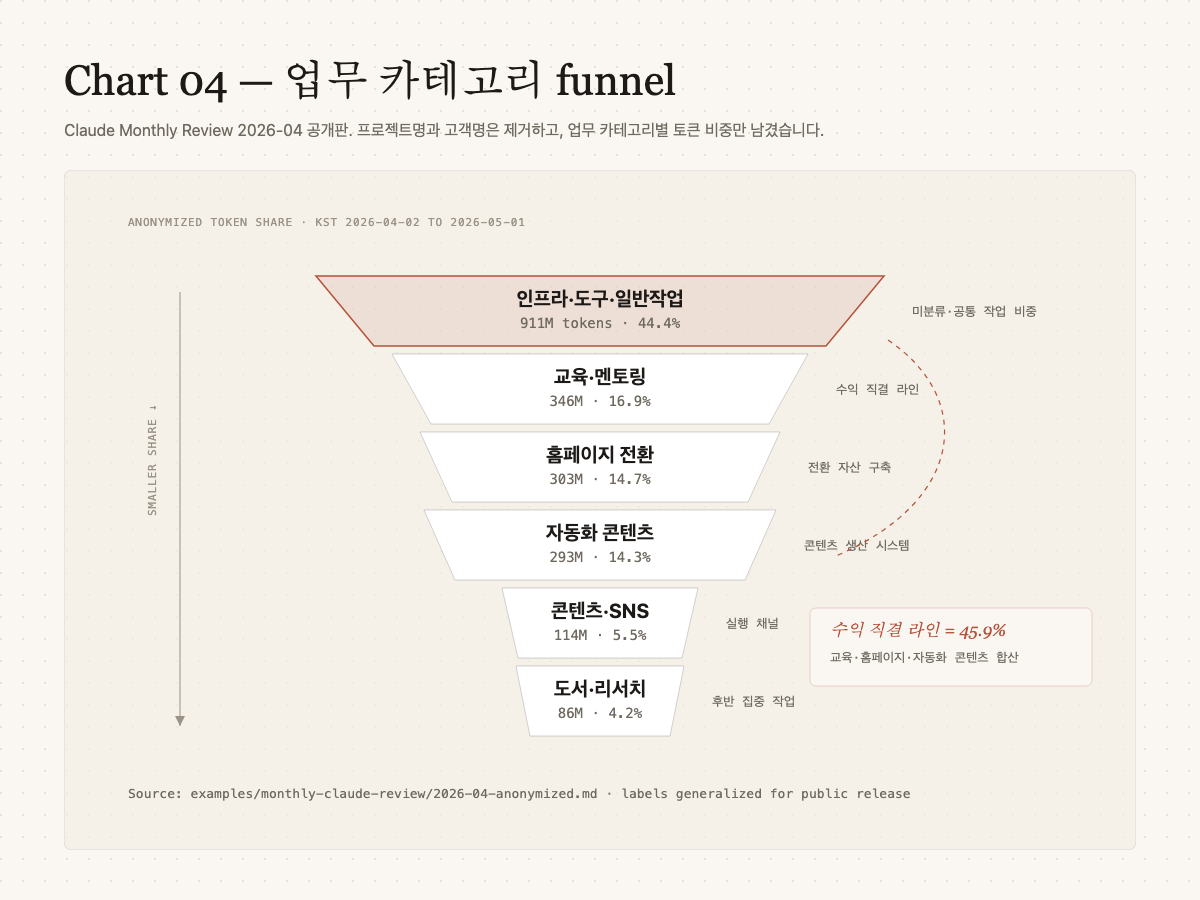
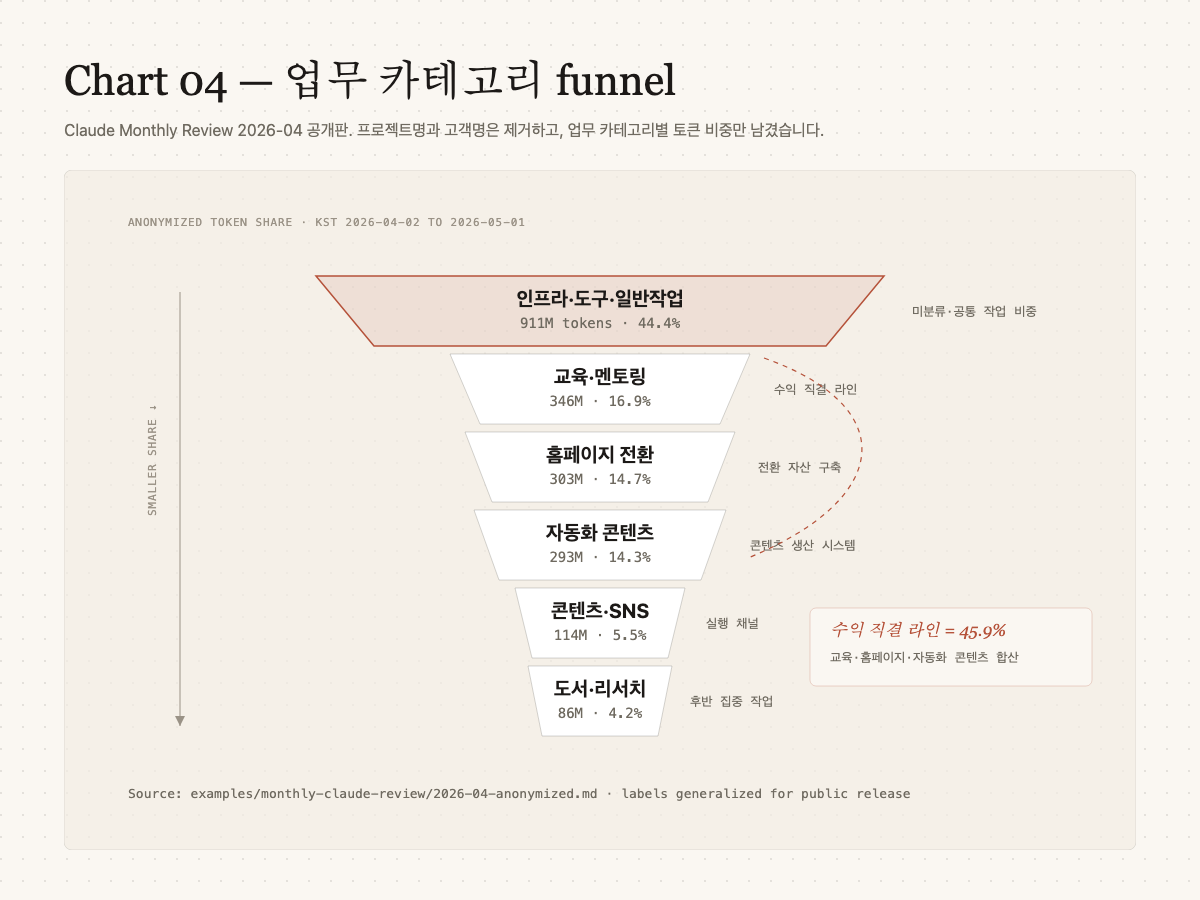
Adjust Claude review funnel proportions

diff --git a/docs/diagrams/claude-monthly-review-category-funnel.html b/docs/diagrams/claude-monthly-review-category-funnel.html
@@ -102,32 +102,32 @@
       <text x="536" y="158" text-anchor="middle" class="sub">911M tokens · 44.4%</text>
       <text x="848" y="146" class="side">미분류·공통 작업 비중</text>
 
-      <polygon points="328,184 744,184 705,254 367,254" fill="#ffffff" stroke="var(--rule)" stroke-width="1"/>
+      <polygon points="386,184 686,184 656,254 416,254" fill="#ffffff" stroke="var(--rule)" stroke-width="1"/>
       <text x="536" y="214" text-anchor="middle" class="label">교육·멘토링</text>
       <text x="536" y="236" text-anchor="middle" class="sub">346M · 16.9%</text>
-      <text x="772" y="224" class="side">수익 직결 라인</text>
+      <text x="710" y="224" class="side">수익 직결 라인</text>
 
-      <polygon points="356,262 716,262 684,332 388,332" fill="#ffffff" stroke="var(--rule)" stroke-width="1"/>
+      <polygon points="401,262 671,262 644,332 428,332" fill="#ffffff" stroke="var(--rule)" stroke-width="1"/>
       <text x="536" y="292" text-anchor="middle" class="label">홈페이지 전환</text>
       <text x="536" y="314" text-anchor="middle" class="sub">303M · 14.7%</text>
-      <text x="744" y="302" class="side">전환 자산 구축</text>
+      <text x="694" y="302" class="side">전환 자산 구축</text>
 
-      <polygon points="360,340 712,340 681,410 391,410" fill="#ffffff" stroke="var(--rule)" stroke-width="1"/>
+      <polygon points="410,340 662,340 637,410 435,410" fill="#ffffff" stroke="var(--rule)" stroke-width="1"/>
       <text x="536" y="370" text-anchor="middle" class="label">자동화 콘텐츠</text>
       <text x="536" y="392" text-anchor="middle" class="sub">293M · 14.3%</text>
-      <text x="740" y="380" class="side">콘텐츠 생산 시스템</text>
+      <text x="686" y="380" class="side">콘텐츠 생산 시스템</text>
 
-      <polygon points="438,418 634,418 618,488 454,488" fill="#ffffff" stroke="var(--rule)" stroke-width="1"/>
+      <polygon points="451,418 621,418 604,488 468,488" fill="#ffffff" stroke="var(--rule)" stroke-width="1"/>
       <text x="536" y="448" text-anchor="middle" class="label">콘텐츠·SNS</text>
       <text x="536" y="470" text-anchor="middle" class="sub">114M · 5.5%</text>
-      <text x="662" y="458" class="side">실행 채널</text>
+      <text x="642" y="458" class="side">실행 채널</text>
 
-      <polygon points="452,496 620,496 606,566 466,566" fill="#ffffff" stroke="var(--rule)" stroke-width="1"/>
+      <polygon points="464,496 608,496 594,566 478,566" fill="#ffffff" stroke="var(--rule)" stroke-width="1"/>
       <text x="536" y="526" text-anchor="middle" class="label">도서·리서치</text>
       <text x="536" y="548" text-anchor="middle" class="sub">86M · 4.2%</text>
-      <text x="648" y="536" class="side">후반 집중 작업</text>
+      <text x="626" y="536" class="side">후반 집중 작업</text>
 
-      <path d="M824 170 C910 228, 902 330, 772 386" fill="none" stroke="var(--accent)" stroke-width="1.2" stroke-dasharray="5 5"/>
+      <path d="M700 188 C836 236, 830 328, 684 388" fill="none" stroke="var(--accent)" stroke-width="1.2" stroke-dasharray="5 5"/>
       <rect x="746" y="438" width="282" height="78" rx="6" fill="var(--paper)" stroke="rgba(181,82,58,0.22)"/>
       <text x="766" y="466" class="callout">수익 직결 라인 = 45.9%</text>
       <text x="766" y="492" class="side">교육·홈페이지·자동화 콘텐츠 합산</text>
